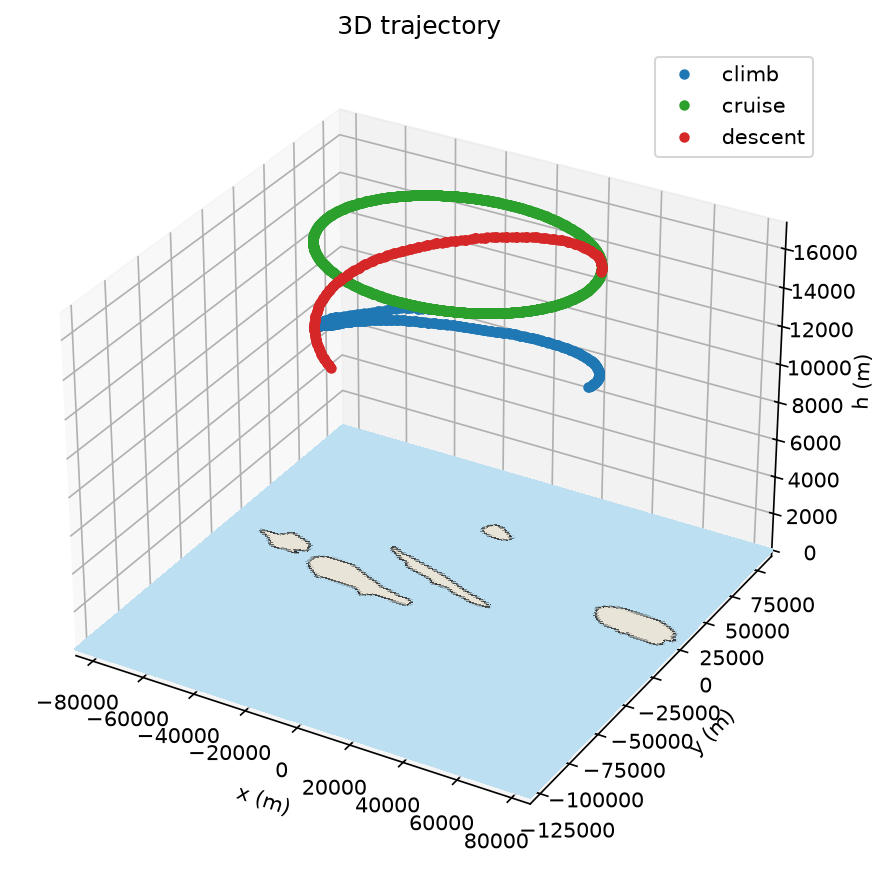
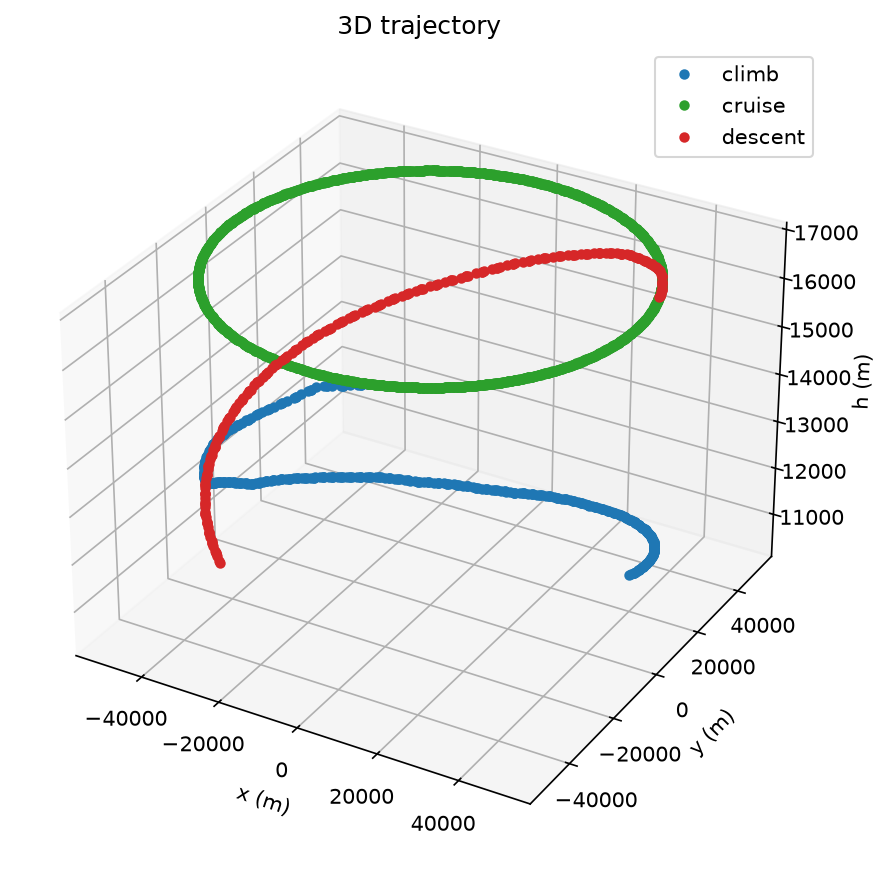
re-naming

diff --git a/V2 - Longitudinal Profile/solving_longitudinal.py b/V2 - Longitudinal Profile/solving_longitudinal.py
@@ -2,11 +2,11 @@ import json
 import numpy as np
 import openmdao.api as om
 import dymos as dm
-import longitudinal_kinematics as kinematics
-import aero_module
-import solar_module
-import potential_module
-import battery_module
+import module_longitudinal_kinematics as kinematics
+import module_aero
+import module_solar
+import module_potential
+import module_battery
 import time
 
 low_altitude = 10000.0  # m -> Lower altitudes -> Lower stall speed -> Decrease in Speed -> Decrease in energy consumption (V***3)
@@ -36,15 +36,15 @@ net_sw_guess_rate = psol_sw_guess_rate - dv_sw_guess_rate - tv_sw_guess_rate
 # climb vs. descent (unlike DV_sw/Psol_sw, which are roughly constant throughout). Climb
 # only gains (cruise_altitude - low_altitude), not cruise_altitude from the ground.
 climb_altitude_gain = cruise_altitude - initial_altitude
-epot_sw_climb_guess_rate = potential_module.M_sw * potential_module.g * climb_altitude_gain / climb_duration_guess
-epot_sw_descent_guess_rate = -potential_module.M_sw * potential_module.g * climb_altitude_gain / descent_duration_guess
+epot_sw_climb_guess_rate = module_potential.M_sw * module_potential.g * climb_altitude_gain / climb_duration_guess
+epot_sw_descent_guess_rate = -module_potential.M_sw * module_potential.g * climb_altitude_gain / descent_duration_guess
 # Peak magnitude of Epot_sw_int over the mission (used to scale that state) - the state
 # itself dips to ~0 at climb start/descent end, but ranges over roughly this much in between.
-epot_sw_int_ref = potential_module.M_sw * potential_module.g * climb_altitude_gain
+epot_sw_int_ref = module_potential.M_sw * module_potential.g * climb_altitude_gain
 
 # Battery energy capacity per unit wing area, same formula as battery_module.StateOfCharge
 # uses internally - needed here only to seed SOC's initial guess from Net_sw_int's guess.
-battery_max_energy = battery_module.mb * 3600 * battery_module.mbat_sw
+battery_max_energy = module_battery.mb * 3600 * module_battery.mbat_sw
 soc_initial = 0.2  # start the mission fully charged
 
 paths_file = 'solving_longitudinal_paths.json'
@@ -77,11 +77,11 @@ class LongitudinalODE(om.Group):
 
         self.add_subsystem('kinematics', kinematics.Kinematics(num_nodes=nn),
                             promotes_inputs=['V', 'gg'], promotes_outputs=['h_dot'])
-        self.add_subsystem('aero', aero_module.DragPowerDissipation(num_nodes=nn),
+        self.add_subsystem('aero', module_aero.DragPowerDissipation(num_nodes=nn),
                             promotes_inputs=['V', 'h', 'aa', 'Tp', 'gg'], promotes_outputs=['DV_sw', 'TV_sw' ,'Vmargin', 'V_dot', 'gg_dot'])
-        self.add_subsystem('solar', solar_module.SolarPower(num_nodes=nn, start_date=solar_module.start_date, lat=solar_module.lat),
+        self.add_subsystem('solar', module_solar.SolarPower(num_nodes=nn, start_date=module_solar.start_date, lat=module_solar.lat),
                             promotes_inputs=['h', 'time'], promotes_outputs=['Psol_sw'])
-        self.add_subsystem('potential', potential_module.PotentialPower(num_nodes=nn),
+        self.add_subsystem('potential', module_potential.PotentialPower(num_nodes=nn),
                             promotes_inputs=['h_dot'], promotes_outputs=['Epot_sw'])
         # Dymos objectives take a single named variable, not an expression, so the
         # difference is computed here as its own ODE output and integrated as its own
@@ -93,7 +93,7 @@ class LongitudinalODE(om.Group):
                                                TV_sw={'units': 'W/m**2', 'shape': (nn,)},
                                                Epot_sw={'units': 'W/m**2', 'shape': (nn,)}),
                             promotes=['Net_sw', 'Psol_sw', 'DV_sw', 'TV_sw', 'Epot_sw'])
-        self.add_subsystem('battery', battery_module.StateOfCharge(num_nodes=nn),
+        self.add_subsystem('battery', module_battery.StateOfCharge(num_nodes=nn),
                             promotes_inputs=['SOC', 'Net_sw'], promotes_outputs=['SOC_dot'])
 
 

diff --git a/V2 - Longitudinal Profile/testing_partials_ODE.py b/V2 - Longitudinal Profile/testing_partials_ODE.py
@@ -2,10 +2,10 @@ import importlib
 
 import numpy as np
 import openmdao.api as om
-import longitudinal_kinematics as longitudinalkinematics
-import potential_module
-import aero_module
-import battery_module
+import module_longitudinal_kinematics as longitudinalkinematics
+import module_potential
+import module_aero
+import module_battery
 
 
 
@@ -40,7 +40,7 @@ def test_potential_module():
     ivc = p.model.add_subsystem('vars', om.IndepVarComp())
     ivc.add_output('h_dot', shape=(num_nodes,), units='m/s')
 
-    p.model.add_subsystem('ode', potential_module.PotentialPower(num_nodes=num_nodes))
+    p.model.add_subsystem('ode', module_potential.PotentialPower(num_nodes=num_nodes))
 
     p.model.connect('vars.h_dot', 'ode.h_dot')
 
@@ -68,7 +68,7 @@ def test_potential_module_totals():
     ivc.add_output('gg', shape=(num_nodes,), units='rad')
 
     p.model.add_subsystem('kin', longitudinalkinematics.Kinematics(num_nodes=num_nodes))
-    p.model.add_subsystem('pot', potential_module.PotentialPower(num_nodes=num_nodes))
+    p.model.add_subsystem('pot', module_potential.PotentialPower(num_nodes=num_nodes))
 
     p.model.connect('vars.V', 'kin.V')
     p.model.connect('vars.gg', 'kin.gg')
@@ -97,7 +97,7 @@ def test_aero_module():
     ivc.add_output('Tp', shape=(num_nodes,))
     ivc.add_output('gg', shape=(num_nodes,), units='rad')
 
-    p.model.add_subsystem('ode', aero_module.DragPowerDissipation(num_nodes=num_nodes))
+    p.model.add_subsystem('ode', module_aero.DragPowerDissipation(num_nodes=num_nodes))
 
     for name in ['V', 'h', 'aa', 'Tp', 'gg']:
         p.model.connect(f'vars.{name}', f'ode.{name}')
@@ -127,7 +127,7 @@ def test_battery_module():
     ivc.add_output('SOC', shape=(num_nodes,), units=None)
     ivc.add_output('Net_sw', shape=(num_nodes,), units='W/m**2')
 
-    p.model.add_subsystem('ode', battery_module.StateOfCharge(num_nodes=num_nodes))
+    p.model.add_subsystem('ode', module_battery.StateOfCharge(num_nodes=num_nodes))
 
     p.model.connect('vars.SOC', 'ode.SOC')
     p.model.connect('vars.Net_sw', 'ode.Net_sw')
@@ -145,10 +145,8 @@ def test_battery_module():
 
 
 if __name__ == '__main__':
-    # test_lateral_kinematics()
-    # test_3d_kinematics()
-    # test_longitudinal_kinematics()
-    # test_potential_module()
-    # test_potential_module_totals()
+    test_longitudinal_kinematics()
+    test_potential_module()
+    test_potential_module_totals()
     test_aero_module()
-    # test_battery_module()
+    test_battery_module()

diff --git a/V2 - Longitudinal Profile/solving_cascade_V3.py b/V2 - Longitudinal Profile/solving_cascade_V3.py
@@ -2,7 +2,7 @@ import json
 import numpy as np
 import openmdao.api as om
 import dymos as dm
-import lateral_kinematics_cylinder
+import module_lateral_kinematics_cylinder
 import solving_longitudinal
 import plot_cascade
 import time
@@ -35,7 +35,7 @@ class LateralWithVHProfile(om.Group):
                                                 t_data=self.options['t_data'],
                                                 h_data=self.options['h_data']),
                            promotes=['*'])
-        self.add_subsystem('kinematics', lateral_kinematics_cylinder.Kinematics(num_nodes=nn), promotes=['*'])
+        self.add_subsystem('kinematics', module_lateral_kinematics_cylinder.Kinematics(num_nodes=nn), promotes=['*'])
 
 
 lateral_paths_file = 'solving_lateral_paths.json'

diff --git a/V2 - Longitudinal Profile/solving_lateral_cylinder.py b/V2 - Longitudinal Profile/solving_lateral_cylinder.py
@@ -3,7 +3,7 @@ import openmdao.api as om
 import dymos as dm
 from dymos.examples.plotting import plot_results
 import matplotlib.pyplot as plt
-import lateral_kinematics_cylinder as kinematics
+import module_lateral_kinematics_cylinder as kinematics
 import time
 
 total_duration = 2 * 3600  # s - single combined duration bound for all 3 stages
